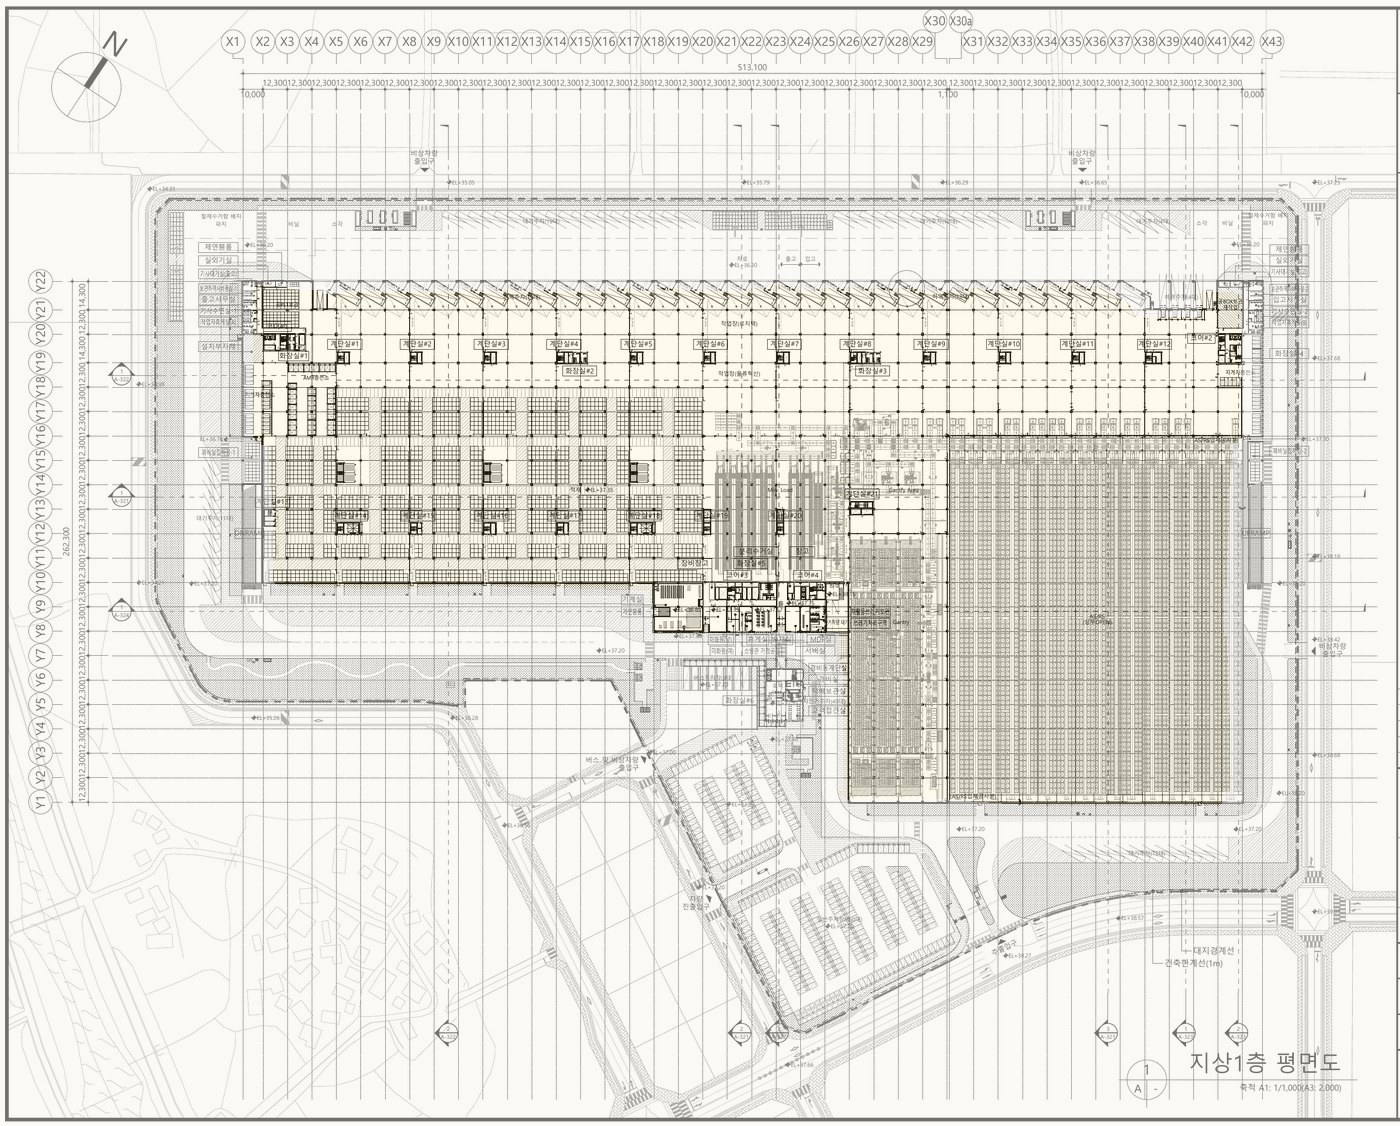
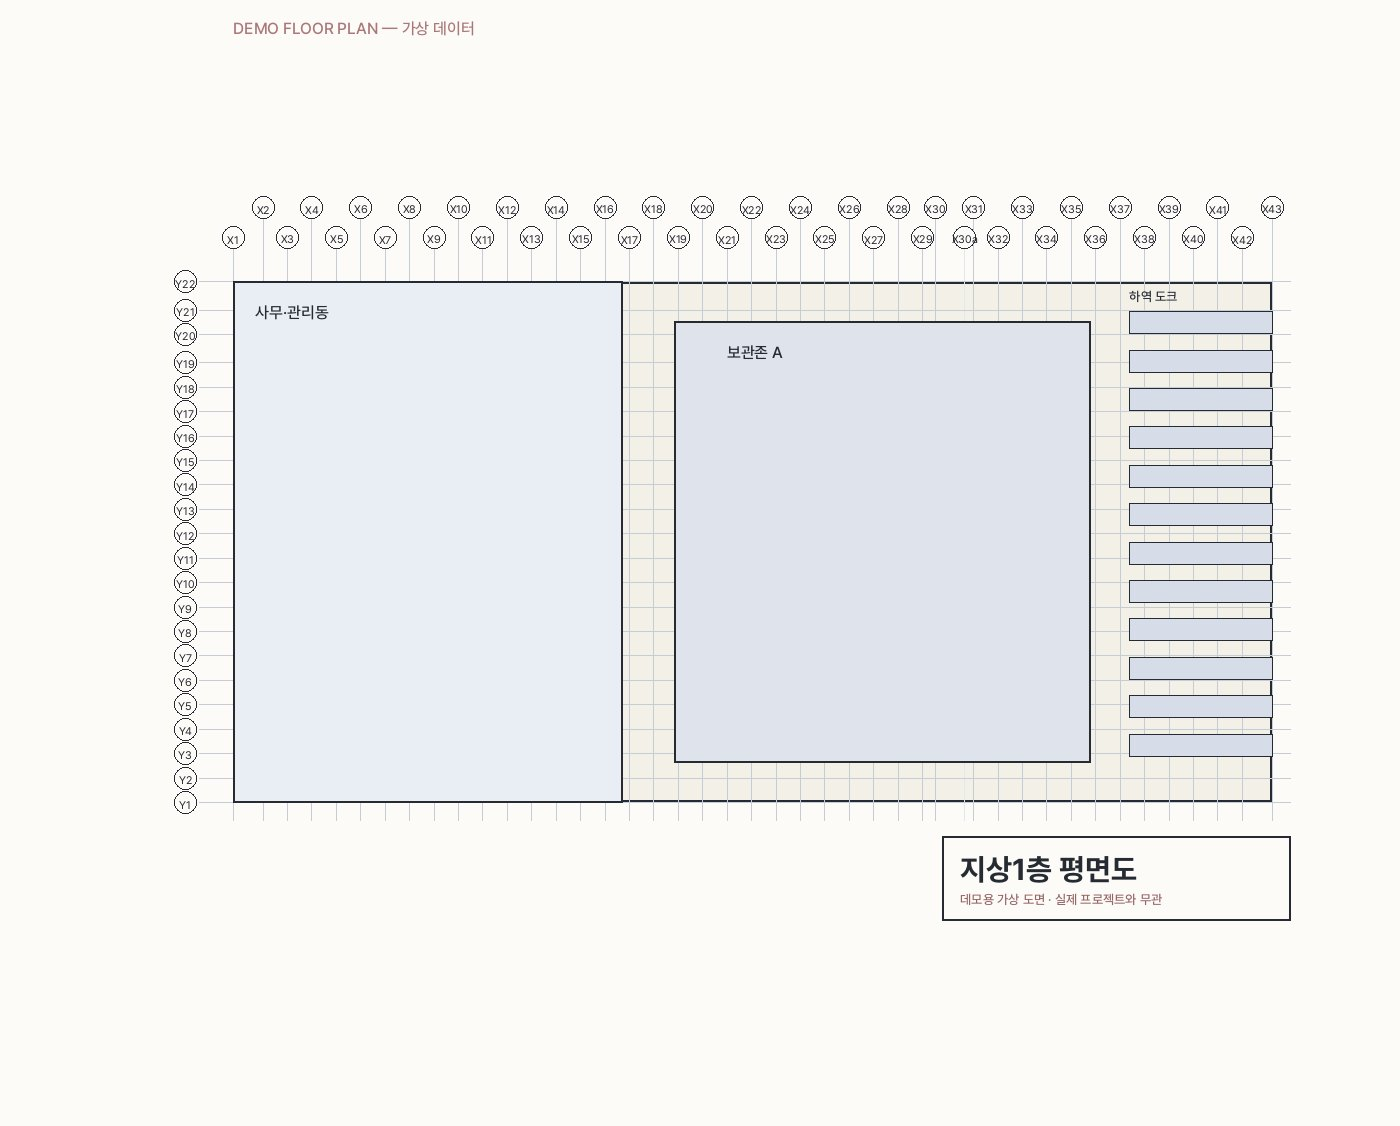
실제 설계도면을 데모용 가상 평면도로 교체
일일현황 탭이 쓰던 floor1~3.jpeg 는 실제 프로젝트의 지상 1~3층 평면도로,
치수·그리드·대지경계선이 그대로 담겨 있었다. 외부에 보여줄 수 있는
데모가 되도록 가상 도면으로 교체한다.

scripts/gen_demo_floorplans.py 로 생성하며, floorN-calib.json 의 그리드
픽셀 좌표를 그대로 사용해 같은 크기(1400x1126)로 그린다. 좌표계가
동일하므로 존 지정과 작업 위치 렌더링 로직은 수정 없이 그대로 동작한다.

주의: 기존 도면은 이 커밋 이후 워킹트리에서만 사라지며 git 히스토리에는
남아 있다. 히스토리 정리와 저장소 공개 범위 조정은 별도 조치가 필요하다.

Claude-Session: https://claude.ai/code/session_01VN2n3NwHhmozszkjuqnwBN

diff --git a/scripts/gen_demo_floorplans.py b/scripts/gen_demo_floorplans.py
@@ -1,0 +1,123 @@
+#!/usr/bin/env python3
+"""
+데모용 가상 평면도 생성기.
+
+실제 프로젝트 도면을 저장소에 두지 않기 위해, 같은 픽셀 크기와 같은 그리드
+좌표(floorN-calib.json)를 갖는 가상 도면을 그린다. 좌표계가 동일하므로
+존 지정·작업 위치 렌더링 로직은 그대로 동작한다.
+
+    python3 scripts/gen_demo_floorplans.py
+
+산출물: components/site-detail/daily/assets/floorN.jpeg
+"""
+import json
+import os
+
+from PIL import Image, ImageDraw, ImageFont
+
+ASSETS = os.path.join("components", "site-detail", "daily", "assets")
+SIZE = (1400, 1126)
+FONT_DIR = os.path.join("node_modules", "pretendard", "dist", "public", "static")
+
+INK = (38, 42, 50)
+GRID = (198, 204, 214)
+GRID_MINOR = (226, 230, 238)
+SLAB = (243, 240, 232)
+ROOM = (233, 237, 244)
+CORE = (214, 221, 232)
+RACK = (223, 228, 236)
+PAPER = (252, 251, 248)
+
+
+def font(weight: str, size: int):
+    path = os.path.join(FONT_DIR, f"Pretendard-{weight}.otf")
+    return ImageFont.truetype(path, size)
+
+
+def load_axis(n: int):
+    with open(os.path.join(ASSETS, f"floor{n}-calib.json"), encoding="utf-8") as fh:
+        cal = json.load(fh)
+    xs = sorted(((lbl, p["px"]) for lbl, p in cal["X"].items()), key=lambda t: t[1])
+    ys = sorted(((lbl, p["py"]) for lbl, p in cal["Y"].items()), key=lambda t: t[1])
+    return xs, ys
+
+
+def bubble(d, cx, cy, label, f, r=11):
+    d.ellipse([cx - r, cy - r, cx + r, cy + r], outline=INK, width=1, fill=PAPER)
+    box = d.textbbox((0, 0), label, font=f)
+    d.text((cx - (box[2] - box[0]) / 2, cy - (box[3] - box[1]) / 2 - 1), label, font=f, fill=INK)
+
+
+def draw_floor(n: int):
+    xs, ys = load_axis(n)
+    img = Image.new("RGB", SIZE, PAPER)
+    d = ImageDraw.Draw(img)
+
+    f_tiny, f_small, f_body, f_title = font("Regular", 11), font("Medium", 13), font("Medium", 16), font("Bold", 30)
+
+    x0, x1 = xs[0][1], xs[-1][1]
+    y0, y1 = ys[0][1], ys[-1][1]
+
+    # 슬래브 외곽
+    d.rectangle([x0, y0, x1, y1], fill=SLAB, outline=INK, width=3)
+
+    # 그리드
+    for lbl, px in xs:
+        minor = lbl.endswith("a")
+        d.line([(px, y0 - (32 if xs.index((lbl, px)) % 2 == 0 else 62)), (px, y1 + 18)],
+               fill=GRID_MINOR if minor else GRID, width=1)
+    for lbl, py in ys:
+        d.line([(x0 - 34, py), (x1 + 18, py)], fill=GRID, width=1)
+
+    span_x = (x1 - x0) / 4.0
+    span_y = (y1 - y0) / 4.0
+
+    if n == 1:
+        # 하역 도크 + 사무동 + 보관존
+        d.rectangle([x0, y0, x0 + span_x * 1.5, y1], fill=ROOM, outline=INK, width=2)
+        d.text((x0 + 22, y0 + 20), "사무·관리동", font=f_body, fill=INK)
+        for i in range(12):
+            top = y0 + 30 + i * ((y1 - y0 - 60) / 12)
+            d.rectangle([x1 - span_x * 0.55, top, x1, top + 22], fill=CORE, outline=INK, width=1)
+        d.text((x1 - span_x * 0.55, y0 + 6), "하역 도크", font=f_small, fill=INK)
+        d.rectangle([x0 + span_x * 1.7, y0 + 40, x1 - span_x * 0.7, y1 - 40], fill=RACK, outline=INK, width=2)
+        d.text((x0 + span_x * 1.9, y0 + 60), "보관존 A", font=f_body, fill=INK)
+    elif n == 2:
+        d.rectangle([x0 + 40, y0 + 40, x1 - 40, y1 - 40], fill=RACK, outline=INK, width=2)
+        cols, rows = 8, 5
+        for c in range(cols):
+            for r in range(rows):
+                left = x0 + 80 + c * ((x1 - x0 - 200) / cols)
+                top = y0 + 80 + r * ((y1 - y0 - 200) / rows)
+                d.rectangle([left, top, left + (x1 - x0 - 200) / cols - 28, top + (y1 - y0 - 200) / rows - 34],
+                            fill=ROOM, outline=INK, width=1)
+        d.text((x0 + 70, y0 + 50), "랙 보관존 B", font=f_body, fill=INK)
+    else:
+        d.rectangle([x0 + 40, y0 + 40, x0 + span_x * 2.4, y1 - 40], fill=RACK, outline=INK, width=2)
+        d.text((x0 + 70, y0 + 60), "보관존 C", font=f_body, fill=INK)
+        d.rectangle([x0 + span_x * 2.7, y0 + 40, x1 - 40, y0 + span_y * 2], fill=CORE, outline=INK, width=2)
+        d.text((x0 + span_x * 2.9, y0 + 60), "기계실 · 전기실", font=f_body, fill=INK)
+        d.rectangle([x0 + span_x * 2.7, y0 + span_y * 2.3, x1 - 40, y1 - 40], fill=ROOM, outline=INK, width=2)
+        d.text((x0 + span_x * 2.9, y0 + span_y * 2.5), "설비 예비존", font=f_body, fill=INK)
+
+    # 그리드 부호 — X는 개수가 많아 2단으로 엇갈려 배치한다
+    for i, (lbl, px) in enumerate(xs):
+        bubble(d, px, y0 - (44 if i % 2 == 0 else 74), f"X{lbl}", f_tiny)
+    for lbl, py in ys:
+        bubble(d, x0 - 48, py, f"Y{lbl}", f_tiny)
+
+    # 표제란
+    d.rectangle([x1 - 330, y1 + 34, x1 + 18, y1 + 118], fill=PAPER, outline=INK, width=2)
+    d.text((x1 - 312, y1 + 48), f"지상{n}층 평면도", font=f_title, fill=INK)
+    d.text((x1 - 312, y1 + 88), "데모용 가상 도면 · 실제 프로젝트와 무관", font=f_small, fill=(150, 100, 100))
+
+    d.text((x0, 18), "DEMO FLOOR PLAN — 가상 데이터", font=f_body, fill=(170, 120, 120))
+
+    out = os.path.join(ASSETS, f"floor{n}.jpeg")
+    img.save(out, "JPEG", quality=86)
+    print(f"wrote {out} {img.size}")
+
+
+if __name__ == "__main__":
+    for i in (1, 2, 3):
+        draw_floor(i)
